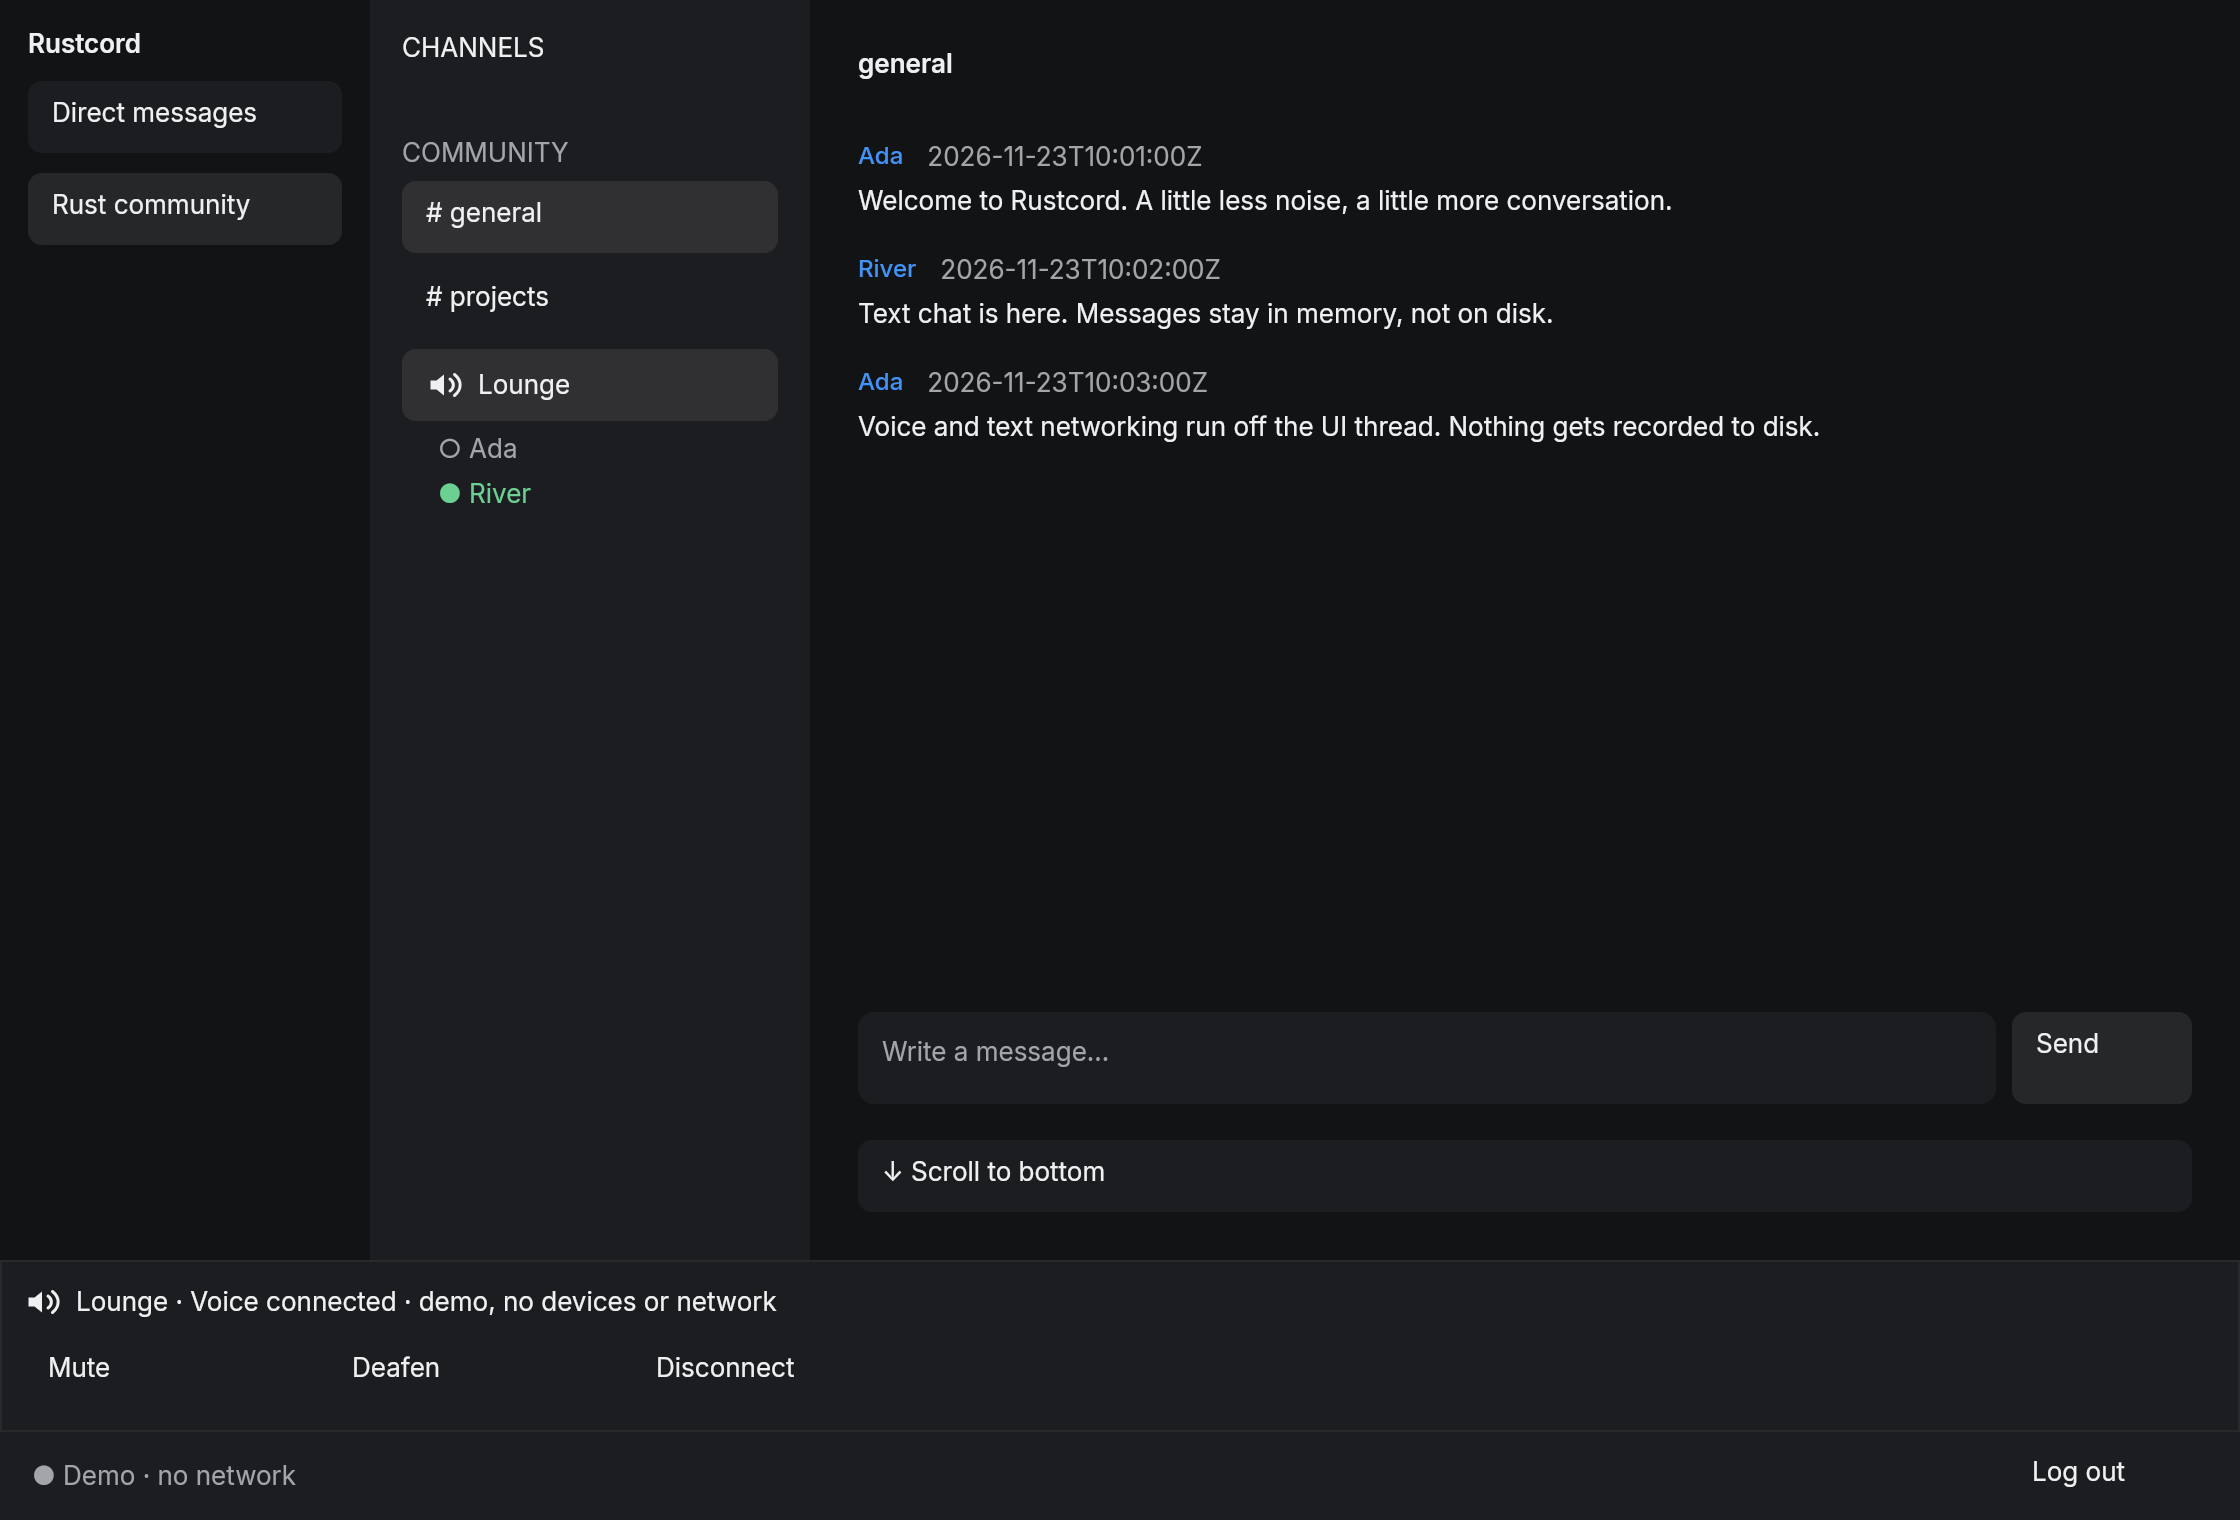
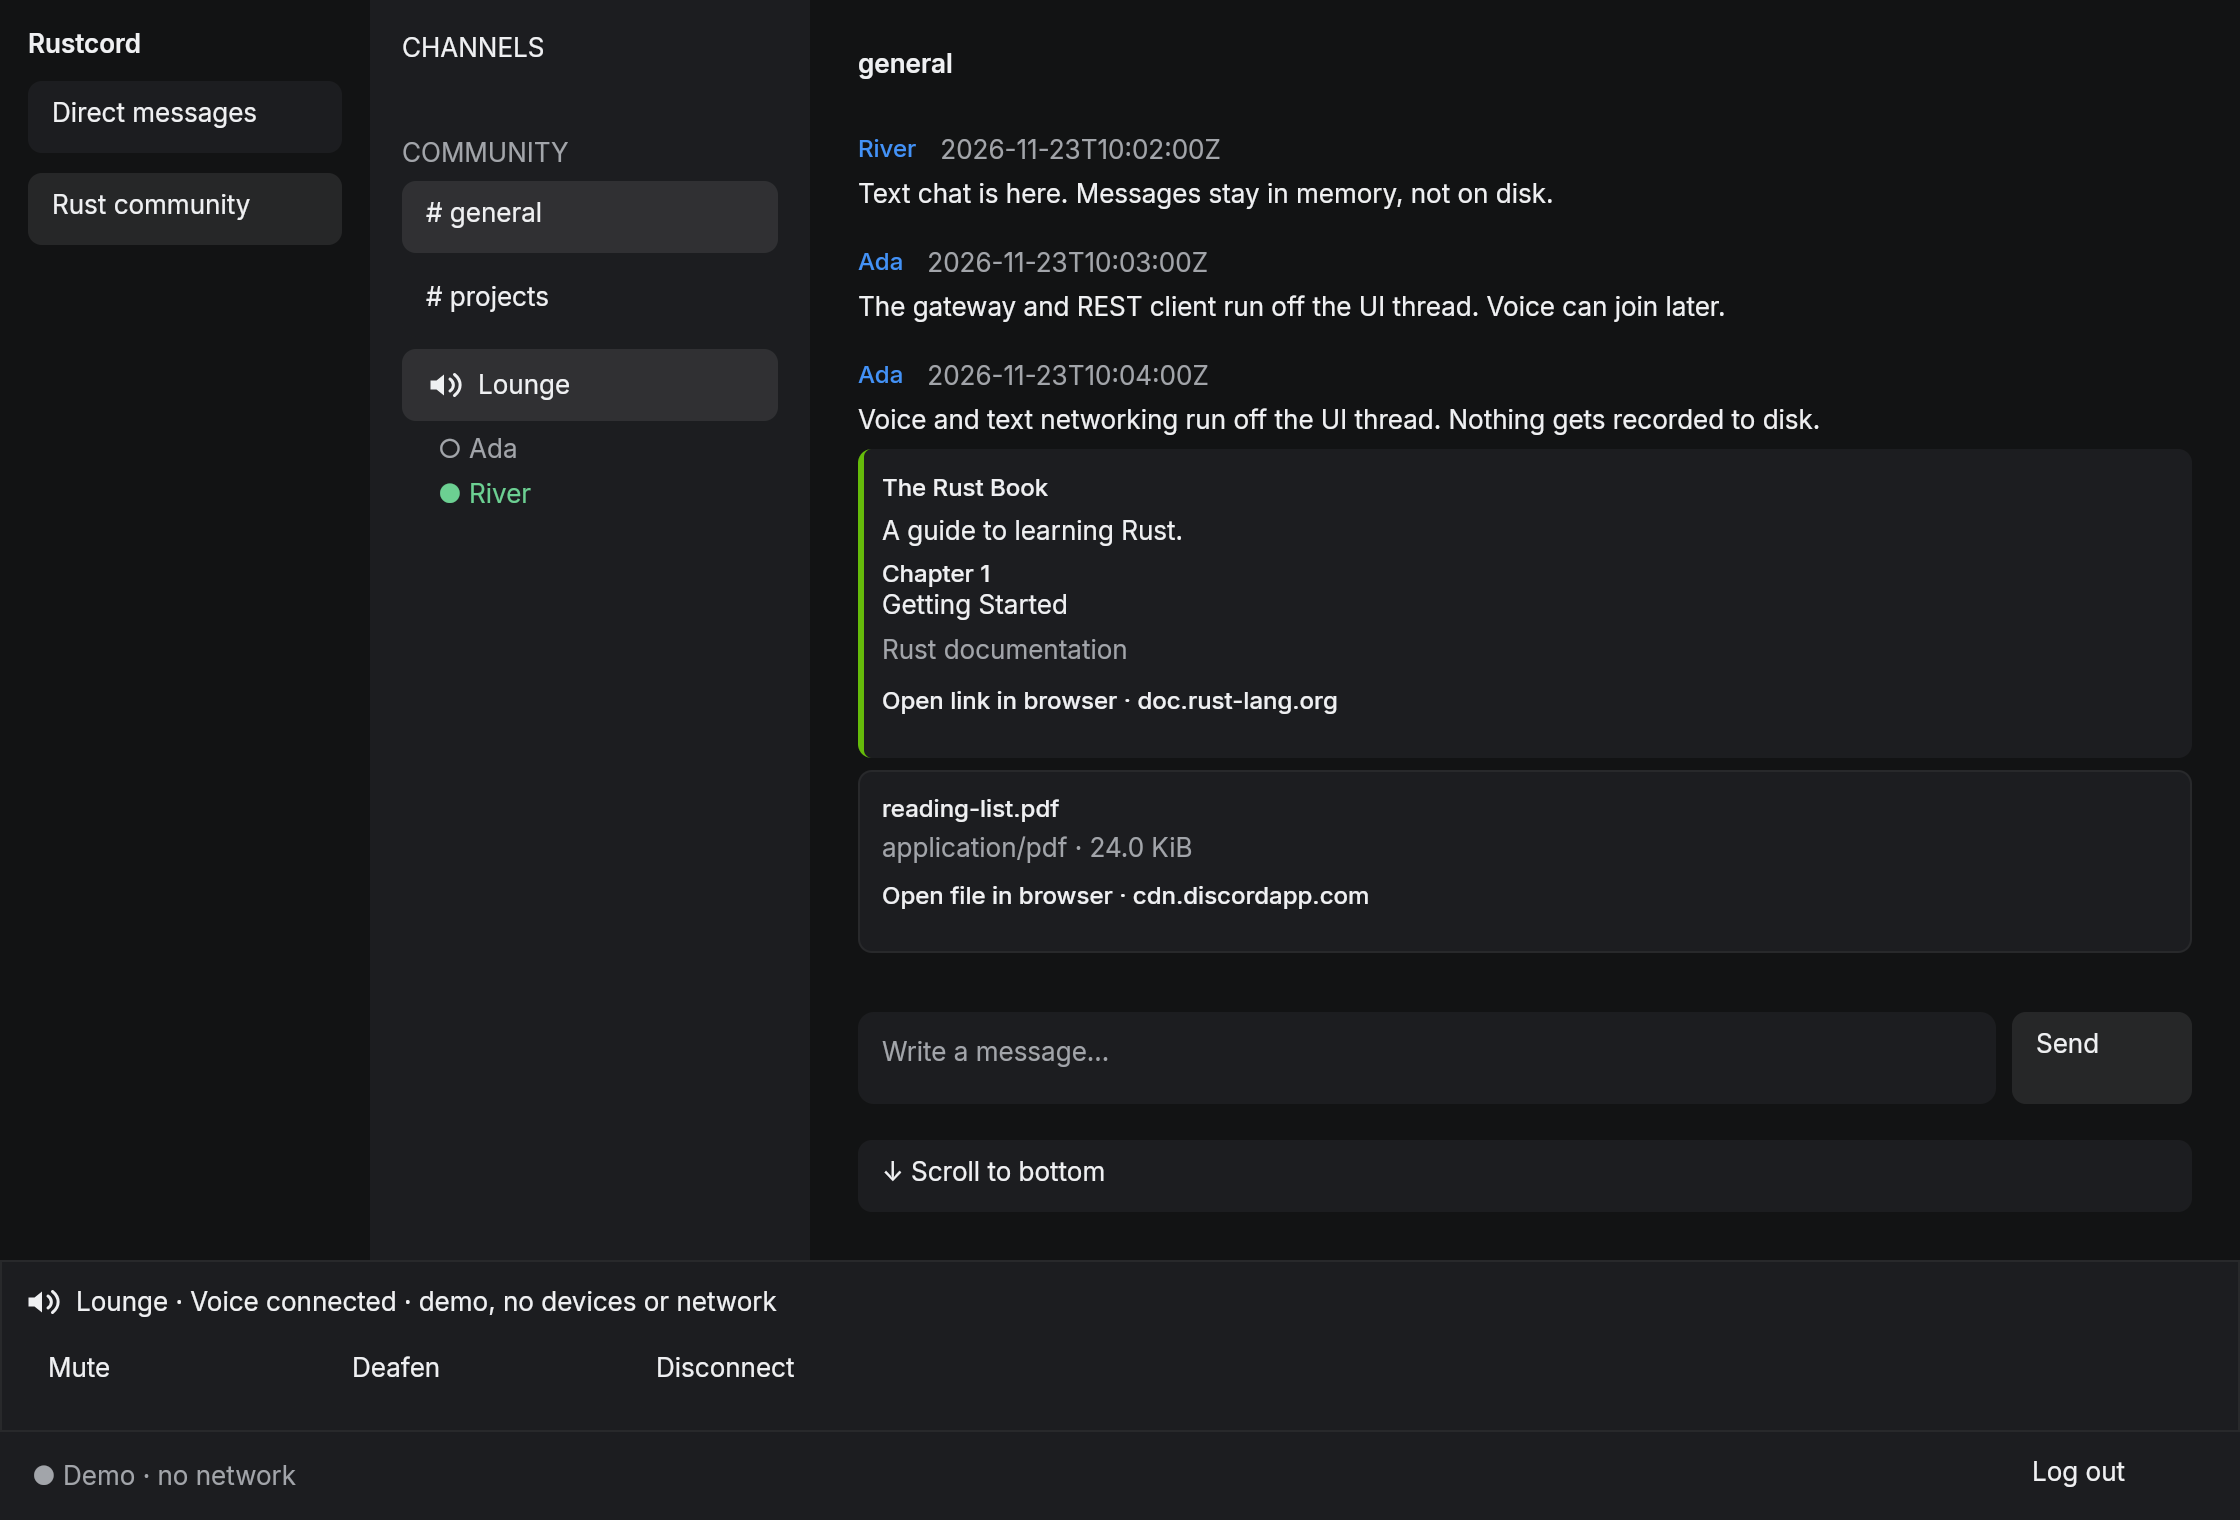
Make demo chat and voice interactive and validate empty login tokens

diff --git a/src/ui/tests.rs b/src/ui/tests.rs
@@ -1,0 +1,101 @@
+use super::*;
+use crate::voice::{handshake::Target, Command as Voice};
+
+#[test]
+fn empty_token_has_visible_error_without_network() {
+    for token in ["", " \t\n "] {
+        let mut s = State::default();
+        s.token.replace_text(token);
+        connect(&mut s, &mut Tx::default());
+        assert_eq!(s.error, "Enter your Discord token to connect.");
+        assert!(s.network.is_none());
+    }
+}
+#[test]
+fn demo_send_appends_clears_and_rejects_empty_or_long_messages() {
+    let mut s = State::default();
+    demo(&mut s);
+    let mut tx = Tx::default();
+    let count = s.store.messages["102"].len();
+    for content in ["", " \t"] {
+        s.draft.replace_text(content);
+        send(&mut s, &mut tx);
+    }
+    assert_eq!(s.store.messages["102"].len(), count);
+    s.draft.replace_text("x".repeat(2001));
+    send(&mut s, &mut tx);
+    assert!(s.error.contains("2,000"));
+    assert_eq!(s.store.messages["102"].len(), count);
+    for content in ["First demo message", "Second demo message"] {
+        s.draft.replace_text(content);
+        send(&mut s, &mut tx);
+        let message = s.store.messages["102"].back().unwrap();
+        assert_eq!(message.content, content);
+        assert_eq!(message.author.id, "demo-self");
+        assert!(s.draft.text.is_empty());
+        assert!(s.error.is_empty());
+    }
+    assert_eq!(s.store.messages["102"].len(), count + 2);
+    assert!(s.network.is_none());
+    assert!(!s.sending);
+    s.channel = Some("200".into());
+    s.draft.replace_text("DM reply");
+    send(&mut s, &mut tx);
+    assert_eq!(s.store.messages["200"].back().unwrap().content, "DM reply");
+    s.channel = None;
+    s.draft.replace_text("No channel");
+    send(&mut s, &mut tx);
+    assert_eq!(s.draft.text, "No channel");
+}
+#[test]
+fn demo_voice_join_toggles_move_leave_and_invalid_target() {
+    let mut s = State::default();
+    demo(&mut s);
+    s.voice_command(Voice::Leave);
+    assert!(s.voice.target.is_none());
+    let guild = Target {
+        guild: Some("100".into()),
+        channel: "104".into(),
+    };
+    s.voice_command(Voice::Join(guild.clone()));
+    assert!(s.voice.target.as_ref() == Some(&guild));
+    assert_eq!(
+        s.store.voice_members("104"),
+        vec![("demo-self".into(), "You".into())]
+    );
+    s.voice_command(Voice::Mute(true));
+    assert!(s.voice.mute);
+    s.voice_command(Voice::Mute(false));
+    assert!(!s.voice.mute);
+    s.voice_command(Voice::Deafen(true));
+    assert!(s.voice.deaf);
+    s.voice_command(Voice::Deafen(false));
+    assert!(!s.voice.deaf);
+    for (id, kind) in [("200", 1), ("201", 3)] {
+        s.store.channels.insert(
+            id.into(),
+            serde_json::from_value(serde_json::json!({"id":id,"type":kind})).unwrap(),
+        );
+        let dm = Target {
+            guild: None,
+            channel: id.into(),
+        };
+        s.voice_command(Voice::Join(dm.clone()));
+        assert!(s.voice.target.as_ref() == Some(&dm));
+        assert!(s.store.voice_members("104").is_empty());
+        assert_eq!(s.store.voice_members(id).len(), 1);
+    }
+    s.voice_command(Voice::Join(Target {
+        guild: None,
+        channel: "missing".into(),
+    }));
+    assert!(!s.error.is_empty());
+    assert_eq!(s.voice.target.as_ref().unwrap().channel, "201");
+    s.voice.speaking.insert("demo-self".into());
+    s.voice_command(Voice::Leave);
+    assert!(s.voice.target.is_none());
+    assert!(s.voice.speaking.is_empty());
+    assert!(s.store.voice_members("201").is_empty());
+    assert!(s.error.is_empty());
+    assert!(s.network.is_none());
+}

diff --git a/src/ui.rs b/src/ui.rs
@@ -1,6 +1,9 @@
+mod demo_actions;
 mod events;
-mod voice_panel;
 mod message_media;
+#[cfg(test)]
+mod tests;
+mod voice_panel;
 
 use crate::{
     auth,
@@ -59,6 +62,7 @@ impl Default for State {
 impl State {
     fn voice_command(&mut self, command: crate::voice::Command) {
         if self.demo {
+            demo_actions::voice(self, command);
             return;
         }
         if !self
@@ -115,6 +119,7 @@ impl State {
 }
 fn connect(s: &mut State, _: &mut Tx) {
     if s.token.text.trim().is_empty() {
+        s.error = "Enter your Discord token to connect.".into();
         return;
     }
     let Some(waker) = s.waker.clone() else {
@@ -155,8 +160,8 @@ fn logout(s: &mut State, _: &mut Tx) {
         String::new()
     };
 }
-fn send(s: &mut State, _: &mut Tx) {
-    if s.demo || s.sending || s.draft.text.trim().is_empty() {
+fn send(s: &mut State, tx: &mut Tx) {
+    if s.sending || s.draft.text.trim().is_empty() {
         return;
     }
     if s.draft.text.chars().count() > 2000 {
@@ -164,6 +169,11 @@ fn send(s: &mut State, _: &mut Tx) {
         return;
     }
     if let Some(channel) = s.channel.clone() {
+        if s.demo {
+            demo_actions::send(s, channel);
+            tx.scroll_to_bottom("transcript");
+            return;
+        }
         s.sending = s.command(Command::Send {
             channel,
             content: s.draft.text.clone(),
@@ -521,10 +531,15 @@ fn view(s: &State, _: &mut Cx<State>) -> El {
 }
 fn demo(s: &mut State) {
     s.demo = true;
+    s.store.user = Some(User {
+        id: "demo-self".into(),
+        username: "You".into(),
+        global_name: None,
+    });
     s.status = "Demo · no network".into();
     s.guild = Some("100".into());
     s.channel = Some("102".into());
-    let guild: Guild = serde_json::from_value(serde_json::json!({"id":"100","name":"Rust community","channels":[{"id":"101","type":4,"name":"Community","position":0},{"id":"102","type":0,"name":"general","parent_id":"101","position":1},{"id":"103","type":0,"name":"projects","parent_id":"101","position":2}]})).unwrap();
+    let guild: Guild = serde_json::from_value(serde_json::json!({"id":"100","name":"Rust community","channels":[{"id":"101","type":4,"name":"Community","position":0},{"id":"102","type":0,"name":"general","parent_id":"101","position":1},{"id":"103","type":0,"name":"projects","parent_id":"101","position":2},{"id":"104","type":2,"name":"Lounge","parent_id":"101","position":3}]})).unwrap();
     s.store.guild(guild);
     let dm: Channel = serde_json::from_value(
         serde_json::json!({"id":"200","type":1,"recipients":[{"id":"3","username":"River"}]}),

diff --git a/src/ui/demo_actions.rs b/src/ui/demo_actions.rs
@@ -1,0 +1,77 @@
+use super::State;
+use crate::{
+    model::{Message, User, VoiceMember, VoiceState},
+    voice::Command,
+};
+
+pub(super) fn send(s: &mut State, channel: String) {
+    let id = s
+        .store
+        .messages
+        .values()
+        .flatten()
+        .filter_map(|m| m.id.parse::<u64>().ok())
+        .max()
+        .unwrap_or(0)
+        .saturating_add(1);
+    s.store.insert(Message {
+        id: id.to_string(),
+        channel_id: channel,
+        author: s.store.user.clone().unwrap_or_else(local_user),
+        content: s.draft.text.clone(),
+        timestamp: "Demo · just now".into(),
+        embeds: Vec::new(),
+        attachments: Vec::new(),
+    });
+    s.draft.clear();
+    s.error.clear();
+}
+fn local_user() -> User {
+    User {
+        id: "demo-self".into(),
+        username: "You".into(),
+        global_name: None,
+    }
+}
+pub(super) fn voice(s: &mut State, command: Command) {
+    let user = s.store.user.clone().unwrap_or_else(local_user);
+    match command {
+        Command::Join(target) => {
+            if !s
+                .store
+                .channels
+                .get(&target.channel)
+                .is_some_and(|c| c.guild_id == target.guild && matches!(c.kind, 1..=3))
+            {
+                s.error = "Choose a demo voice channel or DM call.".into();
+                return;
+            }
+            s.store
+                .voice_states
+                .retain(|_, state| state.user_id != user.id);
+            s.store.voice_state(VoiceState {
+                user_id: user.id.clone(),
+                channel_id: Some(target.channel.clone()),
+                guild_id: target.guild.clone(),
+                member: Some(VoiceMember {
+                    user: Some(user),
+                    nick: None,
+                }),
+            });
+            s.voice.target = Some(target);
+            s.voice.status = "Voice connected · demo, no devices or network".into();
+            s.voice.speaking.clear();
+        }
+        Command::Leave => {
+            s.store
+                .voice_states
+                .retain(|_, state| state.user_id != user.id);
+            s.voice.target = None;
+            s.voice.speaking.clear();
+            s.voice.status = "Voice disconnected · demo".into();
+        }
+        Command::Mute(mute) => s.voice.mute = mute,
+        Command::Deafen(deaf) => s.voice.deaf = deaf,
+    }
+    s.error.clear();
+}

diff --git a/README.md b/README.md
@@ -65,4 +65,6 @@ target/release/rustcord --scene voice --snap screenshots/voice.png
 
 All scenes render with Rune headlessly, without reading the OS keychain or making network requests; the main and voice scenes use fake data. A usable GPU backend is required (Mesa llvmpipe works on Linux). Never run headless capture tooling against a real logged-in session: diagnostic output may contain visible messages.
 
+Demo scenes are locally interactive: sending appends an in-memory demo message, and voice joins, mute, deafen, disconnect and DM calls change simulated state without opening devices or making network requests. Changes disappear when the process exits.
+
 On macOS, `bash scripts/bundle-macos.sh` creates `dist/Rustcord.app` (macOS 11+). The app is unsigned and not notarized; it is a development bundle, built for the runner's architecture, not a universal binary. CI uploads a zipped bundle preserving executable permissions.
